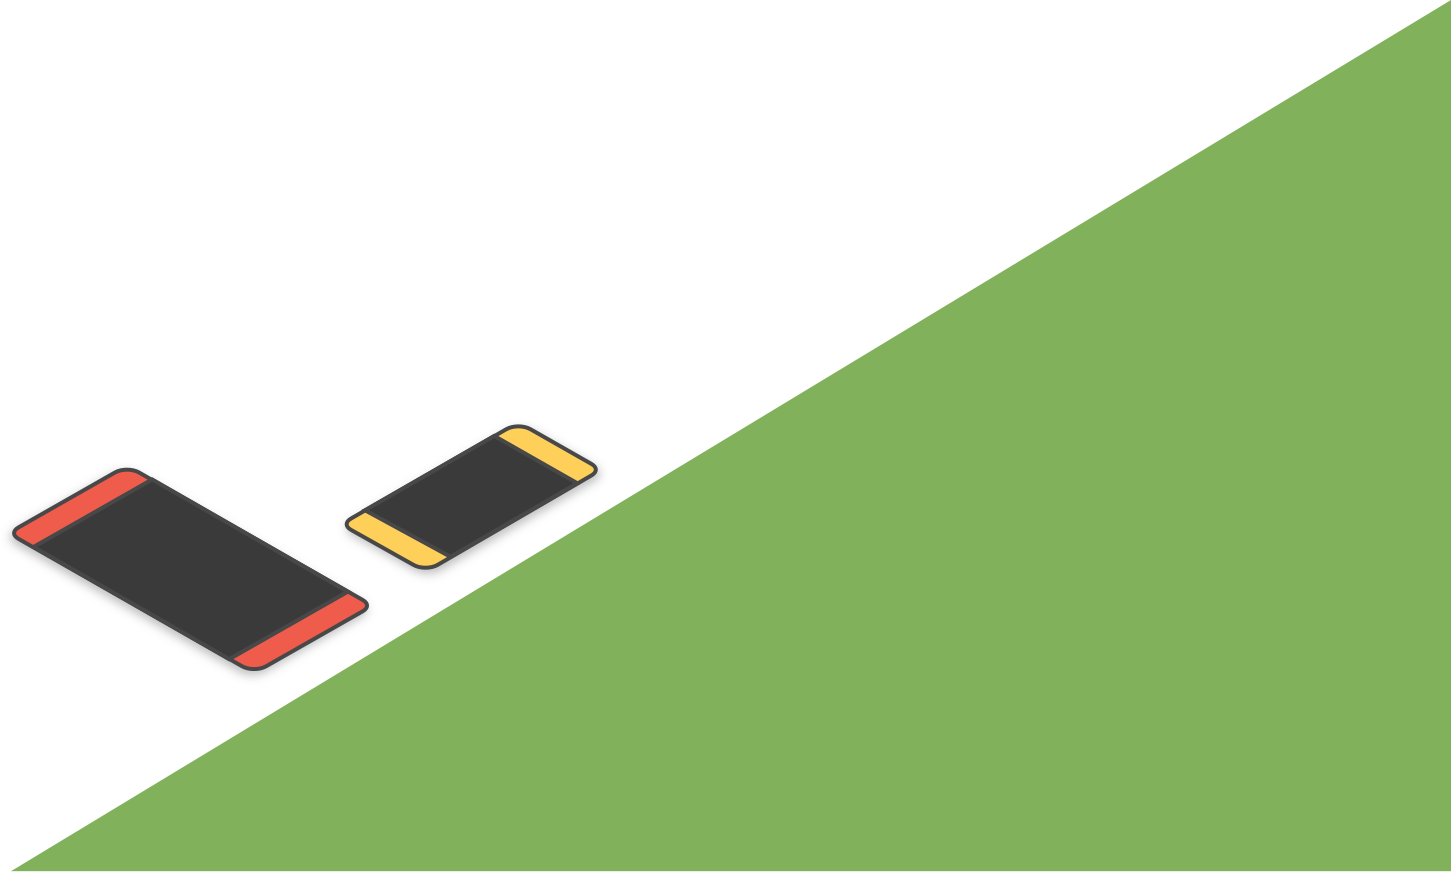
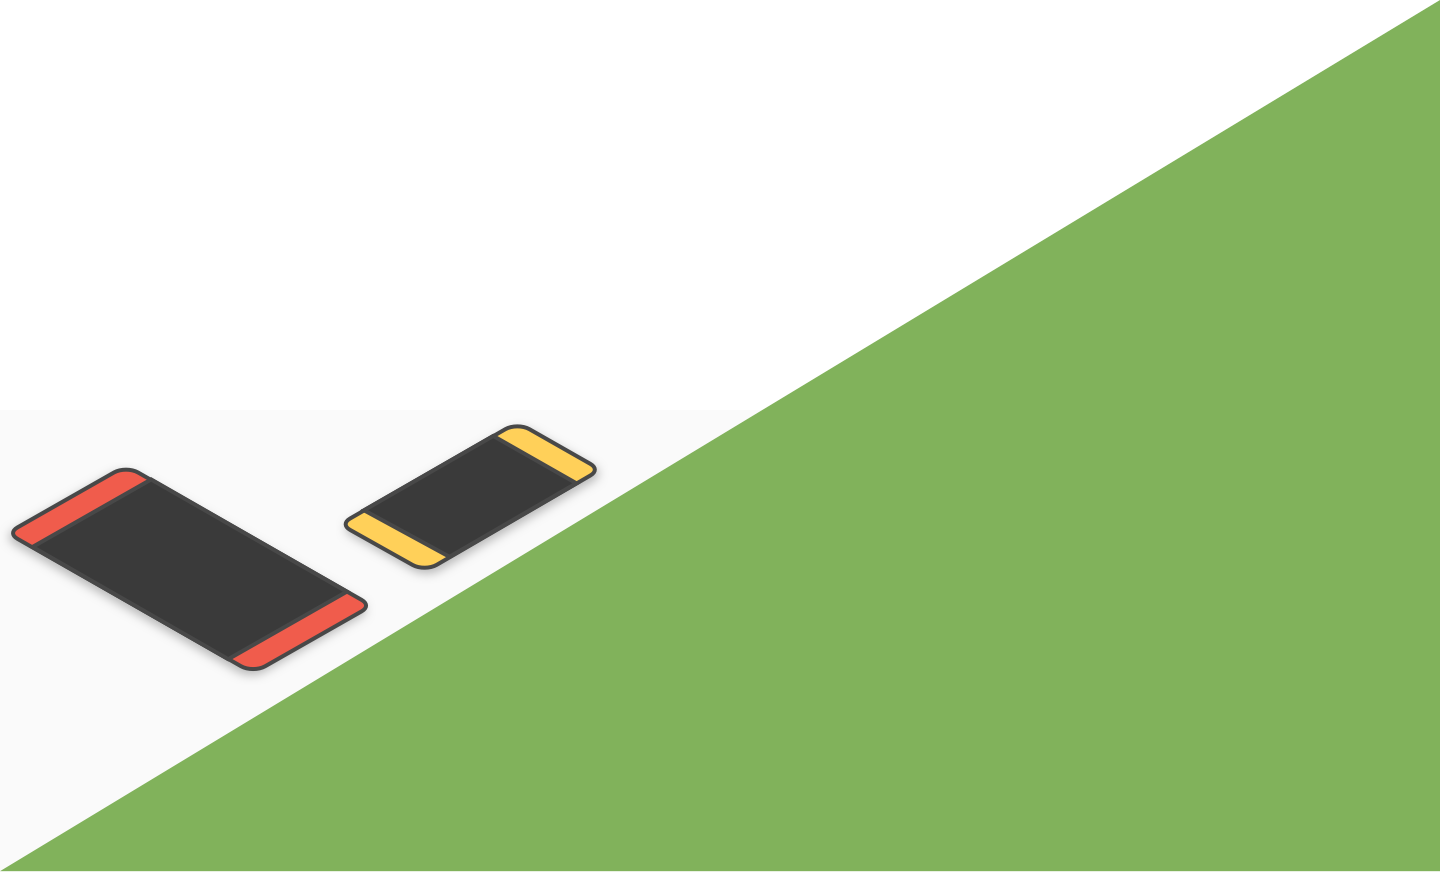
Fix some backgrounds

diff --git a/css/main.css b/css/main.css
@@ -1,3 +1,3 @@
-@import url("https://fonts.googleapis.com/css?family=Varela+Round|Lato");h1{font-size:48px}h4{font-size:22px}html,body,div,span,applet,object,iframe,h1,h2,h3,h4,h5,h6,p,blockquote,pre,a,abbr,acronym,address,big,cite,code,del,dfn,em,img,ins,kbd,q,s,samp,small,strike,strong,sub,sup,tt,var,b,u,i,center,dl,dt,dd,ol,ul,li,fieldset,form,label,legend,table,caption,tbody,tfoot,thead,tr,th,td,article,aside,canvas,details,embed,figure,figcaption,footer,header,hgroup,menu,nav,output,ruby,section,summary,time,mark,audio,video{margin:0;padding:0;border:0;vertical-align:baseline;color:#5C5C5C;font-family:"Varela Round",Helvetica,sans-serif;font-weight:lighter;letter-spacing:0.5px}article,aside,details,figcaption,figure,footer,header,hgroup,menu,nav,section{display:block}body{line-height:1.4;background:#FAFAFA}ol,ul{list-style:none}h1,h2{font-family:"Lato",Helvetica,sans-serif}blockquote,q{quotes:none}blockquote:before,blockquote:after{content:"";content:none}q:before,q:after{content:"";content:none}table{border-collapse:collapse;border-spacing:0}.dc-section{position:relative;margin-top:200px;margin-bottom:200px}.dc-section--header{font-size:42px;margin-bottom:50px}.dc-section--button{margin-top:60px}.dc-section--bottom-bg{position:absolute;top:0;left:0;right:0;z-index:-1}.dc-section--blue,.dc-section--red,.dc-section--red,.dc-section--yellow,.dc-section--green,.dc-section--orange{z-index:-2}.dc-section--blue>div,.dc-section--red>div,.dc-section--red>div,.dc-section--yellow>div,.dc-section--green>div,.dc-section--orange>div{z-index:1}.dc-section--blue:before,.dc-section--red:before,.dc-section--red:before,.dc-section--yellow:before,.dc-section--green:before,.dc-section--orange:before{background:inherit;top:0;content:'';display:block;height:100%;left:0;position:absolute;right:0;transform:skewY(-30deg);transform-origin:20%;z-index:-1;box-shadow:0 -400px 0 #FAFAFA}.dc-section--blue:after,.dc-section--red:after,.dc-section--red:after,.dc-section--yellow:after,.dc-section--green:after,.dc-section--orange:after{background:inherit;bottom:0;content:'';display:block;height:100%;left:0;position:absolute;right:0;transform:skewY(-30deg);transform-origin:69%;z-index:-1;box-shadow:0 400px 0 #FAFAFA}.dc-section--blue{background:#65A2B8}.dc-section--red{background:#E51A42}.dc-section--green{background:#81B25B}.dc-section--yellow{background:#FFD059}.dc-section--orange{background:#F05C4C}.dc-hero{background-size:cover;height:80%;height:80vh;max-height:800px;display:-ms-flexbox;display:flex;-ms-flex-direction:column;flex-direction:column;-ms-flex-pack:distribute;justify-content:space-around;position:relative;margin:0}.dc-hero h1{font-size:48px}.dc-hero--description{margin-top:40px;margin-bottom:40px}.dc-hero--description h4{line-height:1.5}.dc-hero--bg{width:100%;height:100%;position:absolute;top:0}.dc-hero--bg img{width:auto;min-width:100%}.dc-hero--content-wrapper{position:absolute;width:100%}.dc-card{border:5px solid #5C5C5C;box-shadow:0 10px 20px rgba(0,0,0,0.29);border-radius:25px;padding:36px 20px;background-color:#FAFAFA;margin-bottom:30px}.dc-card--img{margin-bottom:20px}.dc-card--body h3{margin-bottom:10px}.dc-schedule{margin-bottom:20px}.dc-schedule h4{margin:20px 0}.dc-schedule p{line-height:24px;position:relative;padding-left:30px;font-size:16px}.dc-faq--section{margin-bottom:40px}.dc-faq--section h4{margin:24px 0}.dc-faq--text{line-height:24px;position:relative;padding-left:55px}.dc-faq--text:before{content:' ';width:6px;height:50px;background-color:#5C5C5C;position:absolute;border-radius:3px;left:30px;top:0}.dc-featurette{z-index:-2}.dc-featurette--left,.dc-featurette--right{position:absolute;z-index:-1;top:-20%}.dc-featurette--left{left:-60px}.dc-featurette--left.second{top:-37%}.dc-featurette--right{right:0;top:-75%}.dc-cta{position:absolute;top:35%;left:0;right:0}.dc-cta img{width:100%}.dc-footer{position:absolute;bottom:0;width:100%;padding-bottom:40px}.dc-footer #logo-dsp{width:100px;vertical-align:middle;height:100px}.dc-footer #logo-designatucsd{vertical-align:middle;margin-right:20px;width:200px}.dc-footer--presented h4{margin-bottom:20px}.dc-btn{padding:15px 50px;border-radius:12px;background-color:#F05C4C;color:#FAFAFA;border:none;font-size:18px;letter-spacing:0.5px;box-shadow:0px 4px 20px rgba(0,0,0,0.25)}.dc-btn:hover,.dc-btn:focus,.dc-btn:active,.dc-btn:visited{background-color:#F05C4C !important;box-shadow:0px 4px 20px rgba(0,0,0,0.25)}
+@import url("https://fonts.googleapis.com/css?family=Varela+Round|Lato");h1{font-size:48px}h4{font-size:22px}html,body,div,span,applet,object,iframe,h1,h2,h3,h4,h5,h6,p,blockquote,pre,a,abbr,acronym,address,big,cite,code,del,dfn,em,img,ins,kbd,q,s,samp,small,strike,strong,sub,sup,tt,var,b,u,i,center,dl,dt,dd,ol,ul,li,fieldset,form,label,legend,table,caption,tbody,tfoot,thead,tr,th,td,article,aside,canvas,details,embed,figure,figcaption,footer,header,hgroup,menu,nav,output,ruby,section,summary,time,mark,audio,video{margin:0;padding:0;border:0;vertical-align:baseline;color:#5C5C5C;font-family:"Varela Round",Helvetica,sans-serif;font-weight:lighter;letter-spacing:0.5px}article,aside,details,figcaption,figure,footer,header,hgroup,menu,nav,section{display:block}body{line-height:1.4;background:#FAFAFA}ol,ul{list-style:none}h1,h2{font-family:"Lato",Helvetica,sans-serif}blockquote,q{quotes:none}blockquote:before,blockquote:after{content:"";content:none}q:before,q:after{content:"";content:none}table{border-collapse:collapse;border-spacing:0}.dc-section{position:relative;margin-top:200px}.dc-section--header{font-size:42px;margin-bottom:50px}.dc-section--button{margin-top:60px}.dc-section--bottom-bg{position:absolute;top:0;left:0;right:0;z-index:-1}.dc-section--blue,.dc-section--red,.dc-section--red,.dc-section--yellow,.dc-section--green,.dc-section--orange{z-index:-2}.dc-section--blue>div,.dc-section--red>div,.dc-section--red>div,.dc-section--yellow>div,.dc-section--green>div,.dc-section--orange>div{z-index:1}.dc-section--blue:before,.dc-section--red:before,.dc-section--red:before,.dc-section--yellow:before,.dc-section--green:before,.dc-section--orange:before{background:url("../images/triangle_green_top.png") no-repeat 0 0;background-size:initial;top:-600px;content:'';display:block;height:100%;left:0;position:absolute;right:0;transform:scale(1.2);z-index:-1}.dc-section--blue:after,.dc-section--red:after,.dc-section--red:after,.dc-section--yellow:after,.dc-section--green:after,.dc-section--orange:after{background:inherit;top:80%;content:'';display:block;height:100%;left:0;background:url("../images/triangle_green_bottom.png") no-repeat 100% 0;position:absolute;right:0;transform:scale(1.2);z-index:-1}.dc-section--blue{background:#65A2B8}.dc-section--red{background:#E51A42}.dc-section--green{background:#81B25B}.dc-section--yellow{background:#FFD059}.dc-section--yellow:before{background:url("../images/triangle_yellow_top.png") no-repeat 0 0;background-size:initial}.dc-section--yellow:after{background:url("../images/triangle_yellow_bottom.png") no-repeat 100% 0;background-size:initial}.dc-section--orange{background:#F05C4C}.dc-hero{background-size:cover;height:80%;height:80vh;max-height:800px;display:-ms-flexbox;display:flex;-ms-flex-direction:column;flex-direction:column;-ms-flex-pack:distribute;justify-content:space-around;position:relative;margin:0;margin-bottom:100px}.dc-hero h1{font-size:48px}.dc-hero--description{margin-top:40px;margin-bottom:40px}.dc-hero--description h4{line-height:1.5}.dc-hero--bg{width:100%;height:100%;position:absolute;top:-80px}.dc-hero--bg img{width:auto;min-width:100%}.dc-hero--content-wrapper{position:absolute;width:100%}.dc-card{border:5px solid #5C5C5C;box-shadow:0 10px 20px rgba(0,0,0,0.29);border-radius:25px;padding:36px 20px;background-color:#FAFAFA;margin-bottom:30px}.dc-card--img{margin-bottom:20px}.dc-card--body h3{margin-bottom:10px}.dc-schedule h4{margin:20px 0}.dc-schedule p{line-height:24px;position:relative;padding-left:30px;font-size:16px}.dc-faq--section{margin-bottom:40px}.dc-faq--section h4{margin:24px 0}.dc-faq--text{line-height:24px;position:relative;padding-left:55px}.dc-faq--text:before{content:' ';width:6px;height:50px;background-color:#5C5C5C;position:absolute;border-radius:3px;left:30px;top:0}.dc-featurette{z-index:-2}.dc-featurette--left,.dc-featurette--right{position:absolute;z-index:-1;top:-20%}.dc-featurette--left{left:-60px}.dc-featurette--left.second{top:-37%}.dc-featurette--right{right:0;top:-75%}.dc-cta{position:absolute;top:35%;left:0;right:0}.dc-cta img{width:100%}.dc-footer{position:absolute;bottom:0;width:100%;padding-bottom:40px}.dc-footer #logo-dsp{width:100px;vertical-align:middle;height:100px}.dc-footer #logo-designatucsd{vertical-align:middle;margin-right:20px;width:200px}.dc-footer--presented h4{margin-bottom:20px}.dc-btn{padding:15px 50px;border-radius:12px;background-color:#F05C4C;color:#FAFAFA;border:none;font-size:18px;letter-spacing:0.5px;box-shadow:0px 4px 20px rgba(0,0,0,0.25)}.dc-btn:hover,.dc-btn:focus,.dc-btn:active,.dc-btn:visited{background-color:#F05C4C !important;box-shadow:0px 4px 20px rgba(0,0,0,0.25)}
 
 /*# sourceMappingURL=main.css.map */

diff --git a/scss/pages/_home.scss b/scss/pages/_home.scss
@@ -1,8 +1,11 @@
 .dc-section {
   position: relative;
   margin-top: 200px;
-  margin-bottom: 200px;
 
+  &>div {
+    // position: relative;
+    // top: -200px;
+  }
   &--header {
     font-size: 42px;
     margin-bottom: 50px;
@@ -35,32 +38,30 @@
       z-index: 1;
     }
     &:before {
-      background: inherit;
-      top: 0;
+      background: url('../images/triangle_green_top.png') no-repeat 0 0;
+      background-size: initial;
+      top: -600px;
       content: '';
       display: block;
       height: 100%;
       left: 0;
       position: absolute;
       right: 0;
-      transform: skewY(-30deg);
-      transform-origin: 20%;
+      transform: scale(1.2);
       z-index: -1;
-      box-shadow: 0 -400px 0 $WHITE;
     }
     &:after {
       background: inherit;
-      bottom: 0;
+      top: 80%;
       content: '';
       display: block;
       height: 100%;
       left: 0;
+      background: url('../images/triangle_green_bottom.png') no-repeat 100% 0;
       position: absolute;
       right: 0;
-      transform: skewY(-30deg);
-      transform-origin: 69%;
+      transform: scale(1.2);
       z-index: -1;  
-      box-shadow: 0 400px 0 $WHITE;
     }
   }
   &--blue {
@@ -74,6 +75,15 @@
   }
   &--yellow {
     background: $YELLOW_1;
+
+    &:before {
+      background: url('../images/triangle_yellow_top.png') no-repeat 0 0;
+      background-size: initial;
+    }
+    &:after {
+      background: url('../images/triangle_yellow_bottom.png') no-repeat 100% 0;
+      background-size: initial;
+    }
   }
   &--orange {
     background: $ORANGE_1;
@@ -91,6 +101,7 @@
   justify-content: space-around;
   position: relative;
   margin: 0;
+  margin-bottom: 100px;
 
   h1 {
     font-size: 48px;
@@ -111,7 +122,7 @@
     width: 100%;
     height: 100%;
     position: absolute;
-    top: 0;
+    top: -80px;
 
     img {
       width: auto;
@@ -143,7 +154,6 @@
 }
 
 .dc-schedule {
-  margin-bottom: 20px;
 
   h4 {
     margin: 20px 0;

diff --git a/index.html b/index.html
@@ -20,7 +20,7 @@
   <div class="wrapper">
     <nav class="nav dc-nav">
     </nav>
-    <div class="section dc-section dc-hero">
+    <div class="section dc-hero">
       <div class="dc-hero--bg">
         <img src="images/background.png" />
       </div>
@@ -116,7 +116,6 @@
 
 
     <div class="section dc-section dc-section--green">
-      <div class="dc-featurette--left"><img src="images/phones1.png" /></div>
       <div class="container">
         <div class="row text-center">
           <h2 class="dc-section--header">Schedule</h2>
@@ -202,8 +201,6 @@
     </div>
 
     <div class="section dc-section dc-section--white">
-      <div class="dc-featurette--right"><img src="images/phones2.png" /></div>
-
       <div class="container">
         <div class="row text-center">
           <h2 class="dc-section--header">Sponsor Us</h2>
@@ -253,8 +250,6 @@
 
 
     <div class="section dc-section dc-faq dc-section--yellow">
-      <div class="dc-featurette--left second"><img src="images/phones1.png" /></div>
-
       <div class="container">
         <div class="row text-center">
           <h2 class="dc-section--header">FAQ</h2>
